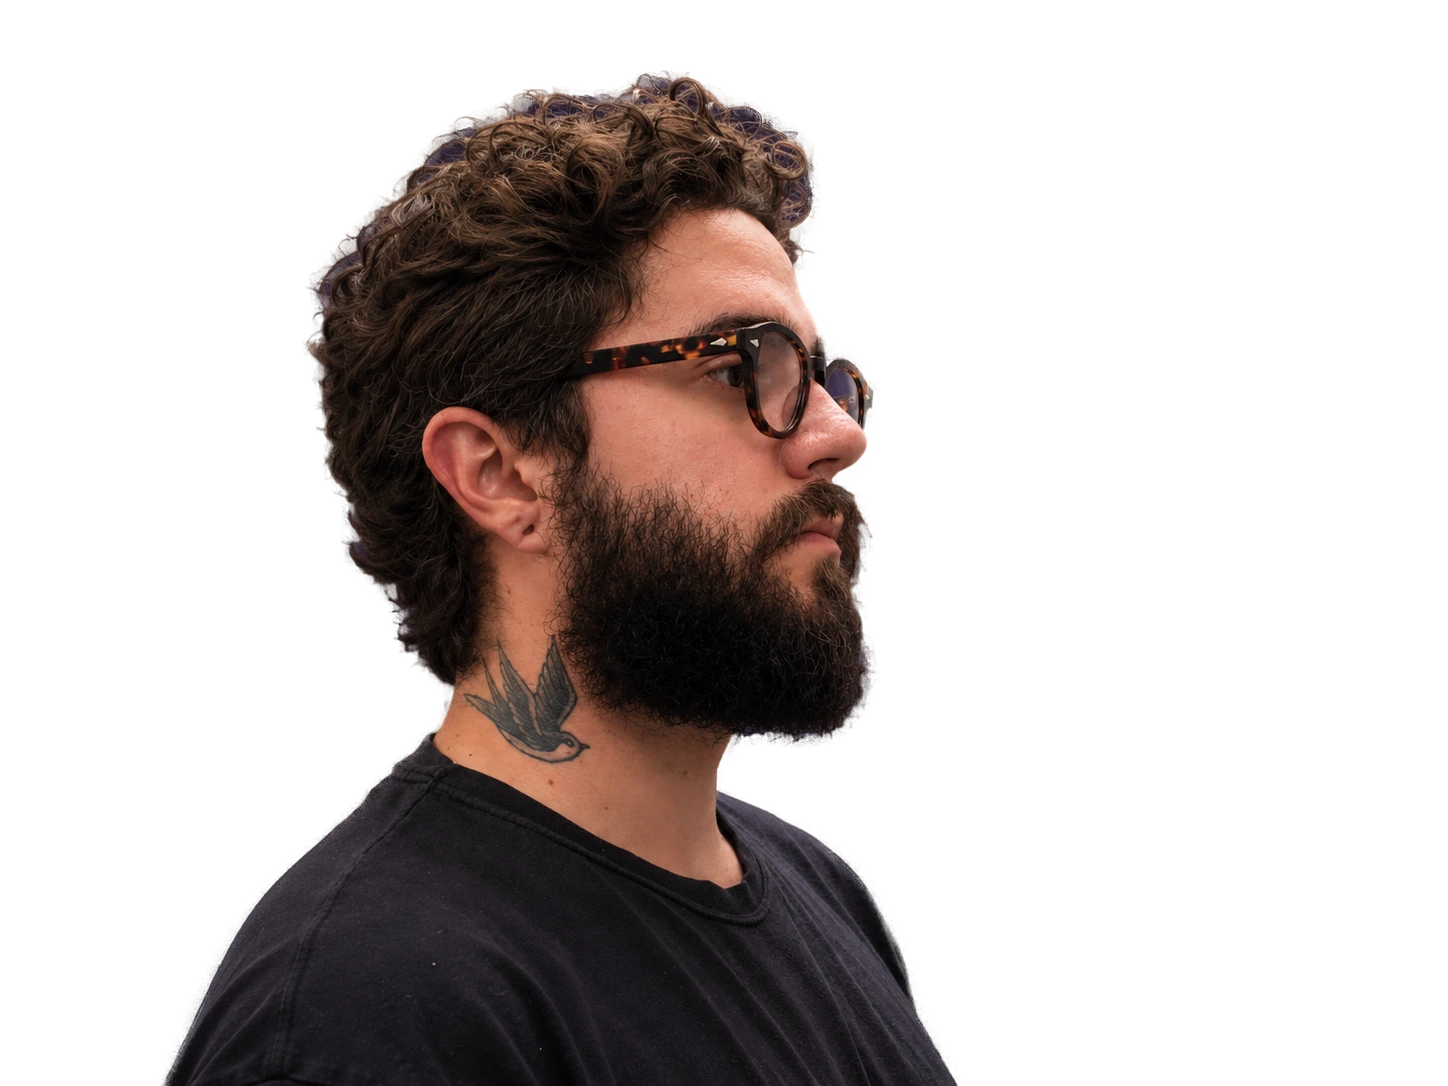
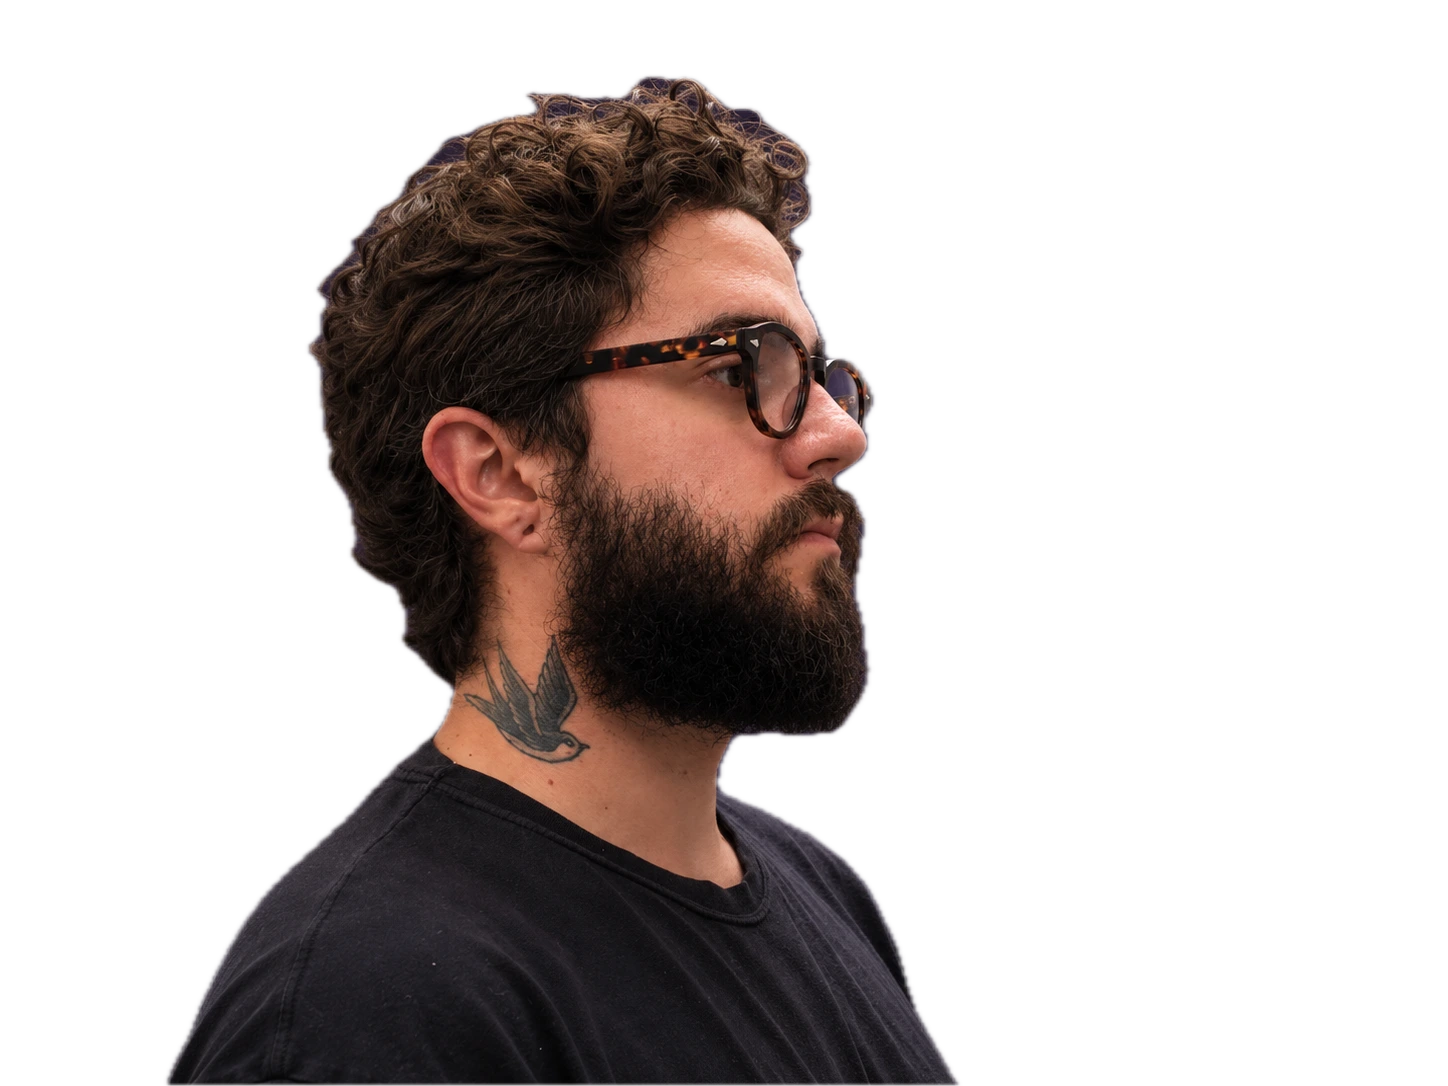
fix(home): nudge hero portrait right, match field to photo background
- Shift the portrait and its cutout right so the face sits center-right.
- Match the hero field to the photo's own background (#30222e) so the shift
  reveals no seam.
- Use the provided transparent cutout PNG for the subject layer.

diff --git a/src/app/globals.css b/src/app/globals.css
@@ -145,9 +145,9 @@ body::before {
    the whole hero. The portrait is screen-blended so its dark background
    dissolves into the field and the subject emerges in the accent. */
 .hero-field {
-  /* Flat field — no top gradient, like the reference. Bottom-only
-     darkening for wordmark legibility is handled by .hero-veil. */
-  background: color-mix(in srgb, var(--accent) 52%, #0a0513);
+  /* Flat field matched to the hero photo's own background (#30222e) so the
+     portrait's horizontal shift reveals no seam. No top gradient. */
+  background: #30222e;
 }
 
 /* The portrait already carries its own purple background, so it is shown

diff --git a/src/components/sections/hero-section.tsx b/src/components/sections/hero-section.tsx
@@ -134,7 +134,7 @@ export function HeroSection({ title }: HeroSectionProps) {
           fill
           priority
           sizes="100vw"
-          className="hero-portrait object-cover object-[56%_24%] md:object-[58%_28%]"
+          className="hero-portrait translate-x-[7%] object-cover object-[56%_24%] md:object-[58%_28%]"
         />
         <span
           aria-hidden
@@ -148,7 +148,7 @@ export function HeroSection({ title }: HeroSectionProps) {
           fill
           priority
           sizes="100vw"
-          className="object-cover object-[56%_24%] md:object-[58%_28%]"
+          className="translate-x-[7%] object-cover object-[56%_24%] md:object-[58%_28%]"
         />
         <div aria-hidden className="hero-veil absolute inset-0" />
       </div>